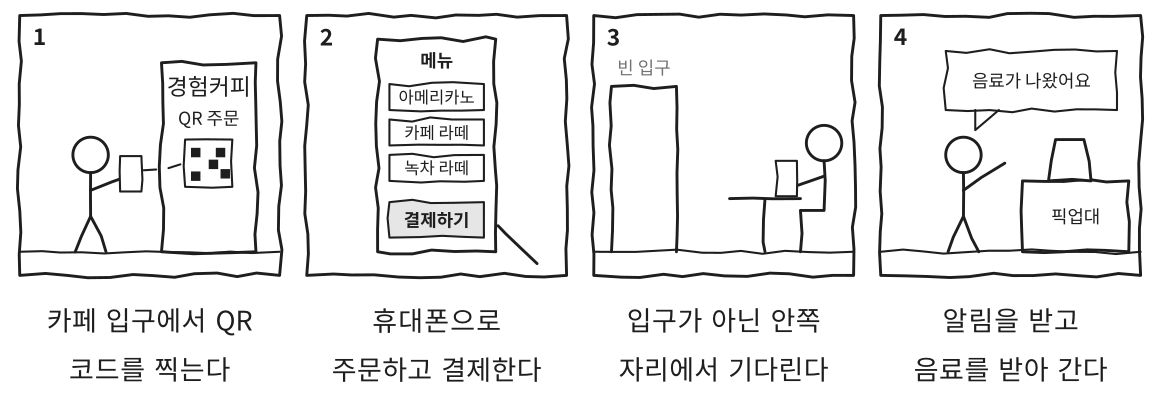
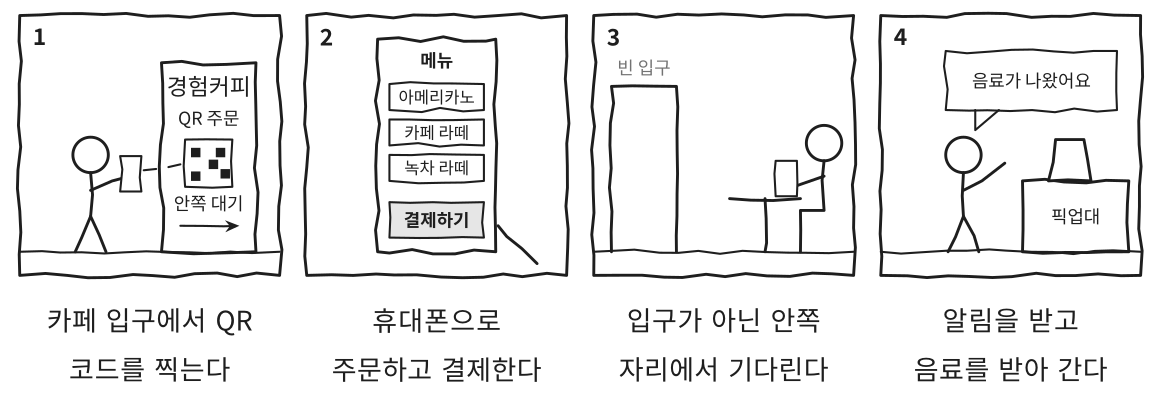
Update cover and fix figures for the final print
- Cover: spine 7.85mm (69 pages) as the default; replace the front cover
  motif with the design -> build -> evaluate cycle, centred; mention the
  AI chapter on the back cover and fix 구현뿐만 spacing
- Chapter 1: caption says UX 블루프린트 스케치, not 서비스 블루프린트
- Chapter 2: affinity diagram gets a proper legend (solid box = 주제,
  dashed box = 관찰 데이터) instead of caption-like labels
- Chapter 3: storyboard cut 1 shows an "안쪽 대기" arrow under the QR code

diff --git a/book/cover.tex b/book/cover.tex
@@ -7,7 +7,7 @@
 %
 % Build with the Makefile: `make cover SPINE=1.36` (`make guides` adds
 % cut/spine/safe-area lines to check placement against the template).
-\providecommand\spine{5.76}
+\providecommand\spine{7.85}
 
 \documentclass{article}
 \newcommand\trimW{128}   % mm, one panel
@@ -79,15 +79,19 @@
           font=\sffamily\bfseries\fontsize{25}{34}\selectfont]
       at (14, \trimH-24) {프로덕트를\\처음부터\\디자인하는 방법};
 
-    % small UX-system-sketch motif: 고객 -> 알바 -> 사장
-    \begin{scope}[shift={(14,48)}, line width=0.6pt, draw=ink,
-                  every node/.style={font=\sffamily\fontsize{7.5}{9}\selectfont, text=ink}]
-      \foreach \x/\t in {0/고객, 40/알바, 80/사장}
-        \draw (\x+8,0) circle (8) node {\t};
-      \draw[-{Stealth[length=2mm]}] (17,-2) to[bend right=25] (39,-2);
-      \draw[-{Stealth[length=2mm]}] (57,-2) to[bend right=25] (79,-2);
-      \draw[-{Stealth[length=2mm]}] (79, 2) to[bend right=25] (57, 2);
-      \draw[-{Stealth[length=2mm]}] (39, 2) to[bend right=25] (17, 2);
+    % design -> build -> evaluate cycle (same as figures/design-cycle.tex),
+    % centred across the panel and in the space between title and author
+    \begin{scope}[shift={(\trimW/2,64.5)}, line width=0.9pt, draw=ink,
+                  every node/.style={text=ink}]
+      \def\R{26}
+      \foreach \a/\t in {90/디자인, -30/구현, 210/평가}
+        \draw (\a:\R) circle (10)
+          node[font=\sffamily\bfseries\fontsize{9}{11}\selectfont] {\t};
+      \foreach \s/\e in {64/-4, -56/-124, 184/116}
+        \draw[-{Stealth[length=2.6mm,width=2mm]}]
+          (\s:\R) arc[start angle=\s, end angle=\e, radius=\R];
+      \node[align=center, font=\sffamily\fontsize{7.5}{9.5}\selectfont]
+        at (0,0) {끝없는\\반복};
     \end{scope}
 
     \node[anchor=south west, inner sep=0, text=ink,
@@ -103,10 +107,11 @@
         이 소책자는 사용자 중심으로 제품을 디자인하는 방법을 설명한다.
         상황 파악에서 시작해 니즈 도출, 스케치, 프로토타이핑,
         그리고 디자인 커뮤니케이션과 리포트 작성까지,
-        챕터를 따라가면 제품 하나를 디자인할 수 있도록 구성했다.\par\medskip
+        챕터를 따라가면 제품 하나를 디자인할 수 있도록 구성했다.
+        마지막으로 AI로 인해 변하는 것과 변하지 않는 것을 이야기한다.\par\medskip
         \textsf{\bfseries 이런 분들에게}\par\smallskip
         · UX 디자이너로 일을 하고 싶은 학생 또는 디자이너\par
-        · 구현 뿐만 아니라 서비스 설계까지 하고 싶은 개발자\par
+        · 구현뿐만 아니라 서비스 설계까지 하고 싶은 개발자\par
         · 사용자 중심으로 제품을 만들고 싶은 모든 사람};
     \node[anchor=south west, inner sep=0, text=ink2,
           font=\sffamily\fontsize{7.5}{9}\selectfont]

diff --git a/figures/affinity-diagram.tex b/figures/affinity-diagram.tex
@@ -30,7 +30,13 @@
          {손님이 나온 음료가 자기 것인지 계속 확인한다}
          {휴대폰을 보다 호명을 놓친 손님이 있다}
 
-  \node[font=\figsmall, text=mid, anchor=south west] at ($(t0.north west)+(0,1mm)$) {주제};
-  \node[font=\figsmall, text=mid, anchor=north west] at ($(g0.south west)+(0,-1mm)$) {포스트잇으로 옮긴 관찰 데이터};
+  % Legend, bottom right: solid box = theme, dashed box = observation data.
+  % Right edge of the legend text lines up with the right edge of the groups.
+  \coordinate (L) at ($(g2.south east)+(-21mm,-3mm)$);
+  \draw[draw=ink, line width=1pt] (L) rectangle ++(6mm,-4mm);
+  \node[font=\figsmall, anchor=west] at ($(L)+(8mm,-2mm)$) {주제};
+  \draw[draw=mid, line width=0.5pt, dash pattern=on 1.2pt off 0.9pt, rounded corners=0.8mm]
+    ($(L)+(0,-6mm)$) rectangle ++(6mm,-4mm);
+  \node[font=\figsmall, anchor=west] at ($(L)+(8mm,-8mm)$) {관찰 데이터};
 \end{tikzpicture}
 \end{fig}\end{document}

diff --git a/figures/storyboard.tex b/figures/storyboard.tex
@@ -29,6 +29,9 @@
     \draw[hthin, fill=white] (14mm,7.5mm) rectangle (18mm,11.5mm);
     \foreach \x/\y in {14.5/10, 16.6/10, 14.5/8, 16/9, 17/8.2} \fill[ink] (\x mm,\y mm) rectangle (\x mm+0.8mm,\y mm+0.8mm);
     \node[font=\fontsize{4.3}{5}\selectfont] at (16mm,13.2mm) {QR 주문};
+    % sign under the QR code: after paying, wait inside (cut 3)
+    \node[font=\fontsize{4.3}{5}\selectfont] at (16mm,6.1mm) {안쪽 대기};
+    \draw[hthin, -{Stealth[length=1.2mm,width=1mm]}] (13.6mm,4.2mm) -- (18.6mm,4.2mm);
     \person{6mm}{2mm}
     \draw[hand] (6mm,7.2mm) -- (8.6mm,8.2mm);
     \phone{9.4mm}{8.6mm}

diff --git a/chapter1.md b/chapter1.md
@@ -49,7 +49,7 @@
 
 내가 과연 제품을 만들기 전에 제품이 위치하는 지형을 잘 파악했는지 어떻게 알 수 있을까? 내가 만들고자 하는 제품이 제공하는 서비스가 어떻게 구성되어 있는지 그 구조를 설명할 수 있으면 어느 정도 이해했다고 볼 수 있다. 여기서 말하는 것은 사용자 경험 관점에서의 구조이다. 나는 이것을 UX 블루프린트 이라고 부르는데  [서비스 블루프린트 (Service Blueprint)](https://www.nngroup.com/articles/service-blueprints-definition/) 라고 부르기도 한다. 아래 이미지는 `경험커피`의 UX 블루프린트의 스케치이다. 
 
-![경험커피의 서비스 블루프린트 스케치](img/ux-system-sketch.png)
+![경험커피의 UX 블루프린트 스케치](img/ux-system-sketch.png)
 
 서비스 블루프린트라고 부르지 않고 UX 블루프린트라고 부르는 이유는 서비스가 아니라 경험 자체의 구조를 이해해야 하는 경우가 있기도 하기 때문이다. 예를 들어서 선물을 주고 받는 경험을 개선하는 제품을 만든다면 기존의 사람들이 어떻게 선물을 주고 받는지에 대한 청사진(블루프린트)이 그려져야 한다.
 
